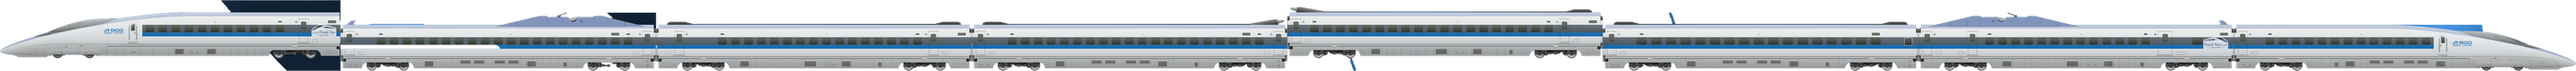
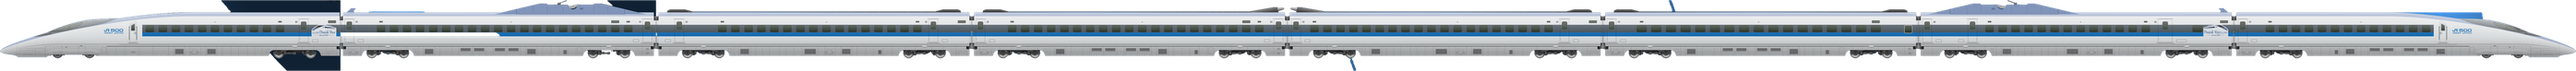
Hình nền menu: nghiêng lại 7 độ (thêm 4 hàng lặp ở mỗi đầu để phủ kín góc, 15 hàng chính vẫn vừa màn hình); căn các toa 500 series và E4 theo cùng đường ray (toa đầu không còn bị cao hơn)

diff --git a/prototype/drive/index.html b/prototype/drive/index.html
@@ -38,7 +38,7 @@
   #menu.dim{background:rgba(8,12,18,.78)}
   #mWall{position:fixed;inset:0;overflow:hidden;pointer-events:none;display:none}
   #menu.solid #mWall{display:block}
-  #mWall .in{position:absolute;left:0;top:0;transform-origin:0 0;display:flex;flex-direction:column;opacity:.1}
+  #mWall .in{position:absolute;left:50%;top:50%;transform-origin:50% 50%;display:flex;flex-direction:column;opacity:.1}
   #menu[data-s=home] #mWall .in{opacity:.24}
   #mWall .wr{position:relative;flex:none;display:flex;align-items:center;white-space:nowrap;padding:3px 0}
   #mWall .wr img{flex:none;margin-right:36px;max-width:none}
@@ -724,20 +724,22 @@ const M = (function () {
   };
   // hình nền: các mẫu Shinkansen xếp theo năm ra mắt (hình dải toa có sẵn trong assets/, chỉ dùng cá nhân); thiếu hình thì hàng đó bị bỏ, không còn hình nào thì chỉ còn nền phẳng
   const WALL = [['w500', '500', 1997], ['e3', 'E3', 1997], ['e2', 'E2', 1997], ['e4', 'E4 Max', 1997], ['t4', '923 Doctor Yellow', 2001], ['e926', 'E926 East i', 2001], ['s800', '800', 2004], ['n700', 'N700', 2007], ['e5', 'E5', 2011], ['e6', 'E6', 2013], ['e7', 'E7 / W7', 2014], ['h5', 'H5', 2016], ['n700s', 'N700S', 2020], ['kamome', 'N700S-8000', 2022], ['e8', 'E8', 2024]];
-  let wallBuilt = false;      // cả bức tường được thu nhỏ để đủ hết các mẫu trong một màn hình, các hàng sát nhau (cao bằng hình tàu)
+  let wallBuilt = false;      // 15 hàng chính nằm vừa chiều cao màn hình sau khi thu nhỏ; bức tường nghiêng nên thêm 4 hàng lặp ở mỗi đầu (không có nhãn) để phủ kín các góc
+  const WE = 4;
   function layoutWall() {
-    const box = el.querySelector('#mWall .in'); let tot = 0; for (const r of box.children) tot += r.offsetHeight; if (!tot) return;
-    const f = innerHeight / tot; box.style.width = Math.ceil(innerWidth / f) + 'px'; box.style.transform = 'scale(' + f + ')';
+    const box = el.querySelector('#mWall .in'); let main = 0, tot = 0; [...box.children].forEach((r, i) => { tot += r.offsetHeight; if (i >= WE && i < WE + WALL.length) main += r.offsetHeight; }); if (!main) return;
+    const f = innerHeight * 0.9 / main, wn = Math.ceil(innerWidth / f * 1.3);
+    box.querySelectorAll('.cap').forEach(c => { c.style.left = ((wn - innerWidth / f) / 2 + 120 - parseFloat(c.parentNode.style.marginLeft)) + 'px'; }); box.style.width = wn + 'px'; box.style.height = tot + 'px'; box.style.marginLeft = (-wn / 2) + 'px'; box.style.marginTop = (-tot / 2) + 'px'; box.style.transform = 'rotate(-7deg) scale(' + f + ')';
   }
   function buildWall() {
     if (!wallBuilt) {
-      wallBuilt = true; const box = el.querySelector('#mWall .in');
-      WALL.forEach((w, i) => {      // mỗi mẫu một hàng; hàng lẻ lệch trái, hàng chẵn lệch phải, dải lặp 5 lần để phủ kín bề ngang
-        const row = document.createElement('div'); row.className = 'wr'; const ml = i % 2 ? -380 : -520; row.style.marginLeft = ml + 'px';
-        const cap = document.createElement('div'); cap.className = 'cap'; cap.textContent = w[2] + ' · ' + w[1]; cap.style.left = (60 - ml) + 'px'; row.appendChild(cap);
+      wallBuilt = true; const box = el.querySelector('#mWall .in'), n = WALL.length;
+      for (let i = -WE; i < n + WE; i++) {      // mỗi mẫu một hàng; hàng lẻ lệch trái, hàng chẵn lệch phải, dải lặp 5 lần để phủ kín bề ngang
+        const w = WALL[((i % n) + n) % n], row = document.createElement('div'); row.className = 'wr'; const ml = (((i % 2) + 2) % 2) ? -380 : -520; row.style.marginLeft = ml + 'px';
+        if (i >= 0 && i < n) { const cap = document.createElement('div'); cap.className = 'cap'; cap.textContent = w[2] + ' · ' + w[1]; cap.style.left = (60 - ml) + 'px'; row.appendChild(cap); }
         for (let k = 0; k < 5; k++) { const im = new Image(); im.src = 'assets/' + w[0] + '_strip.png'; im.alt = ''; im.onload = layoutWall; im.onerror = () => { row.remove(); layoutWall(); }; row.appendChild(im); }
         box.appendChild(row);
-      });
+      }
     }
     layoutWall();
   }

diff --git a/tools/build_vehicle_sprites.py b/tools/build_vehicle_sprites.py
@@ -232,7 +232,7 @@ def build_wall_strip(name):
     src, ncars, carlen, flip, SCALE = SPECS[name]; cfg = WALL[name]
     im, cars = build_ref(name)
     if len(cars) != ncars: print(name, 'cảnh báo:', len(cars), 'dải', cars); return None
-    H, W, _ = im.shape
+    H, W, _ = im.shape; sks = []
     def margins(k): return cfg['head'] if k == 0 else cfg['tail'] if k == len(cars) - 1 else cfg['mid']
     boxes = [(max(0, a - cfg['up']), min(H, a + cfg['down']), max(0, x0 - margins(k)[0] - 80), min(W, x1 + margins(k)[1] + 80)) for k, (a, b, x0, x1) in enumerate(cars)]
     diff = np.abs(im - fit_bg(im, boxes)).max(axis=2); imgs = []
@@ -242,15 +242,16 @@ def build_wall_strip(name):
         if cfg['blue_strip']:      # tia sáng xanh của nền: màu xanh bão hoà chỉ được giữ ở các hàng thuộc thân tàu (hàng có phần lớn là điểm không xanh); phần dưới (bánh xe) chỉ giữ điểm không xanh
             blue = (crop[:, :, 2] - crop[:, :, 0] > 90) & (crop[:, :, 2] > 150); nb = (m & ~blue).sum(axis=1) > 0.5 * (x1 - x0); rr = np.where(nb)[0]
             if len(rr): r0, r1 = rr.min(), rr.max(); keep_blue = (np.arange(m.shape[0]) >= r0) & (np.arange(m.shape[0]) <= r1) & (blue.sum(axis=1) > 0.3 * (x1 - x0)); m &= ~(blue & ~keep_blue[:, None])
+        rows_ok = np.where(m.sum(axis=1) > 0.5 * (x1 - x0))[0]; skirt = int(rows_ok.max()) if len(rows_ok) else m.shape[0] - 1      # hàng đáy váy thân: mốc căn các toa theo cùng đường ray
         m = ndi.binary_closing(m, iterations=2); lab, n = ndi.label(m)
         if n == 0: print(name, 'toa', k + 1, 'rỗng'); return None
         mm = lab == (1 + int(np.argmax(ndi.sum(m, lab, range(1, n + 1))))); mm = ndi.binary_opening(ndi.binary_fill_holes(mm), iterations=1)
         al = ndi.gaussian_filter(mm.astype(np.float32), 0.8)
-        img = Image.fromarray(np.dstack([crop.astype(np.uint8), (al * 255).astype(np.uint8)]), 'RGBA'); bb = img.getchannel('A').point(lambda v: 255 if v > 40 else 0).getbbox(); imgs.append(img.crop(bb) if bb else img)
-    Hh = max(i.height for i in imgs); OVER = 2; x = 0; xs = []
+        img = Image.fromarray(np.dstack([crop.astype(np.uint8), (al * 255).astype(np.uint8)]), 'RGBA'); bb = img.getchannel('A').point(lambda v: 255 if v > 40 else 0).getbbox(); imgs.append(img.crop(bb) if bb else img); sks.append(skirt - (bb[1] if bb else 0))
+    up = max(sks); Hh = up + 1 + max(i.height - 1 - r for i, r in zip(imgs, sks)); OVER = 2; x = 0; xs = []
     for k, i in enumerate(imgs): xs.append(x); x += i.width - (OVER if k < len(imgs) - 1 else 0)
     strip = Image.new('RGBA', (x, Hh), (0, 0, 0, 0))
-    for i, px in zip(imgs, xs): strip.alpha_composite(i, (px, Hh - i.height))
+    for i, px, r in zip(imgs, xs, sks): strip.alpha_composite(i, (px, up - r))
     strip = strip.resize((int(strip.width * SCALE), int(Hh * SCALE)), Image.LANCZOS)
     out = os.path.join(ROOT, name + '_strip.png'); strip.save(out, optimize=True); print(name, strip.size, os.path.getsize(out), 'byte', len(imgs), 'toa (chỉ cho hình nền menu)'); return strip
 
